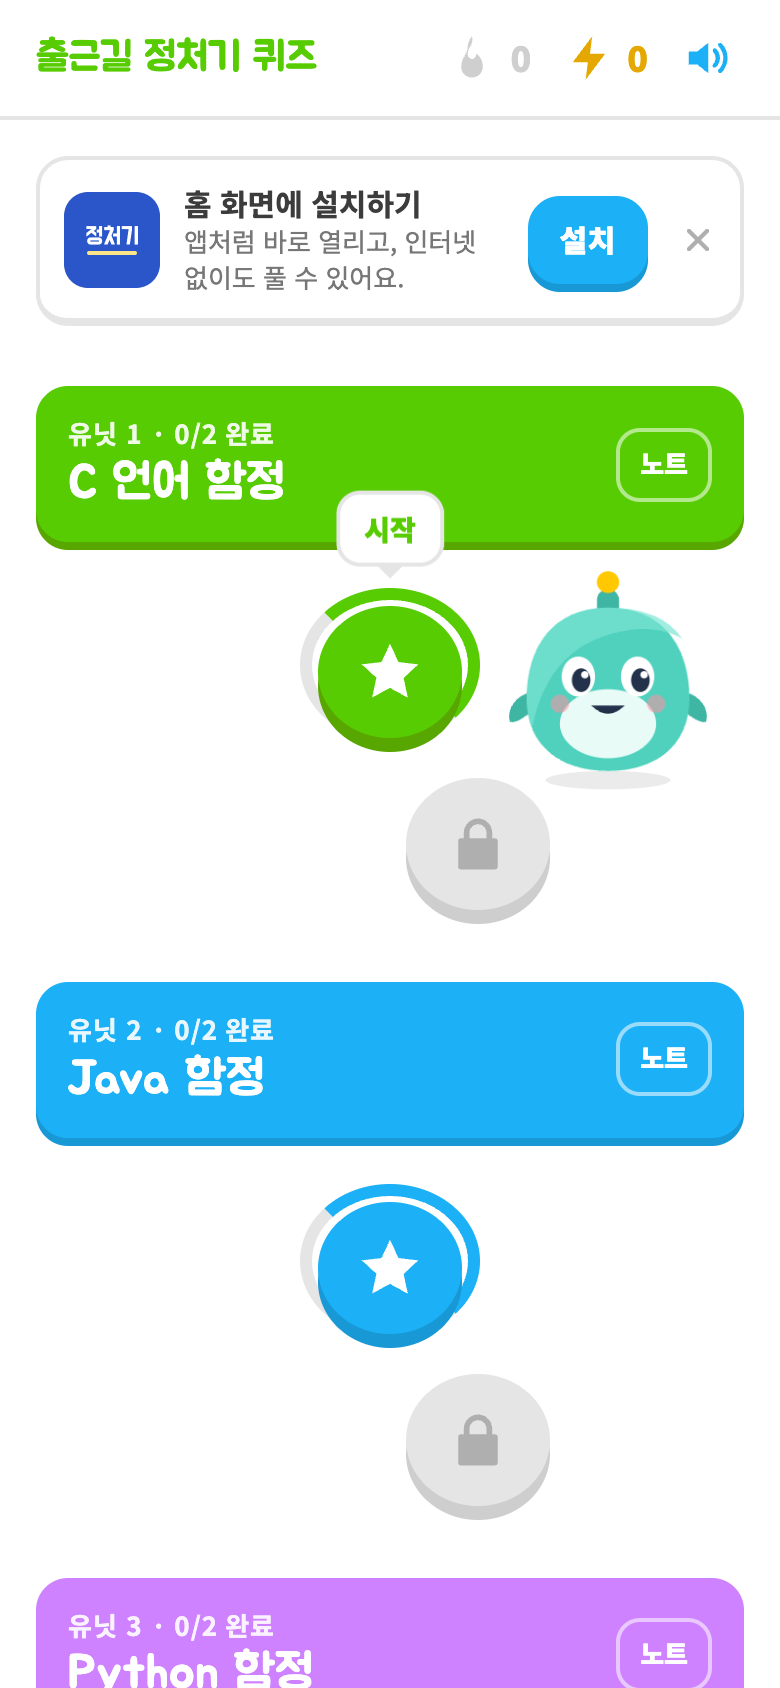
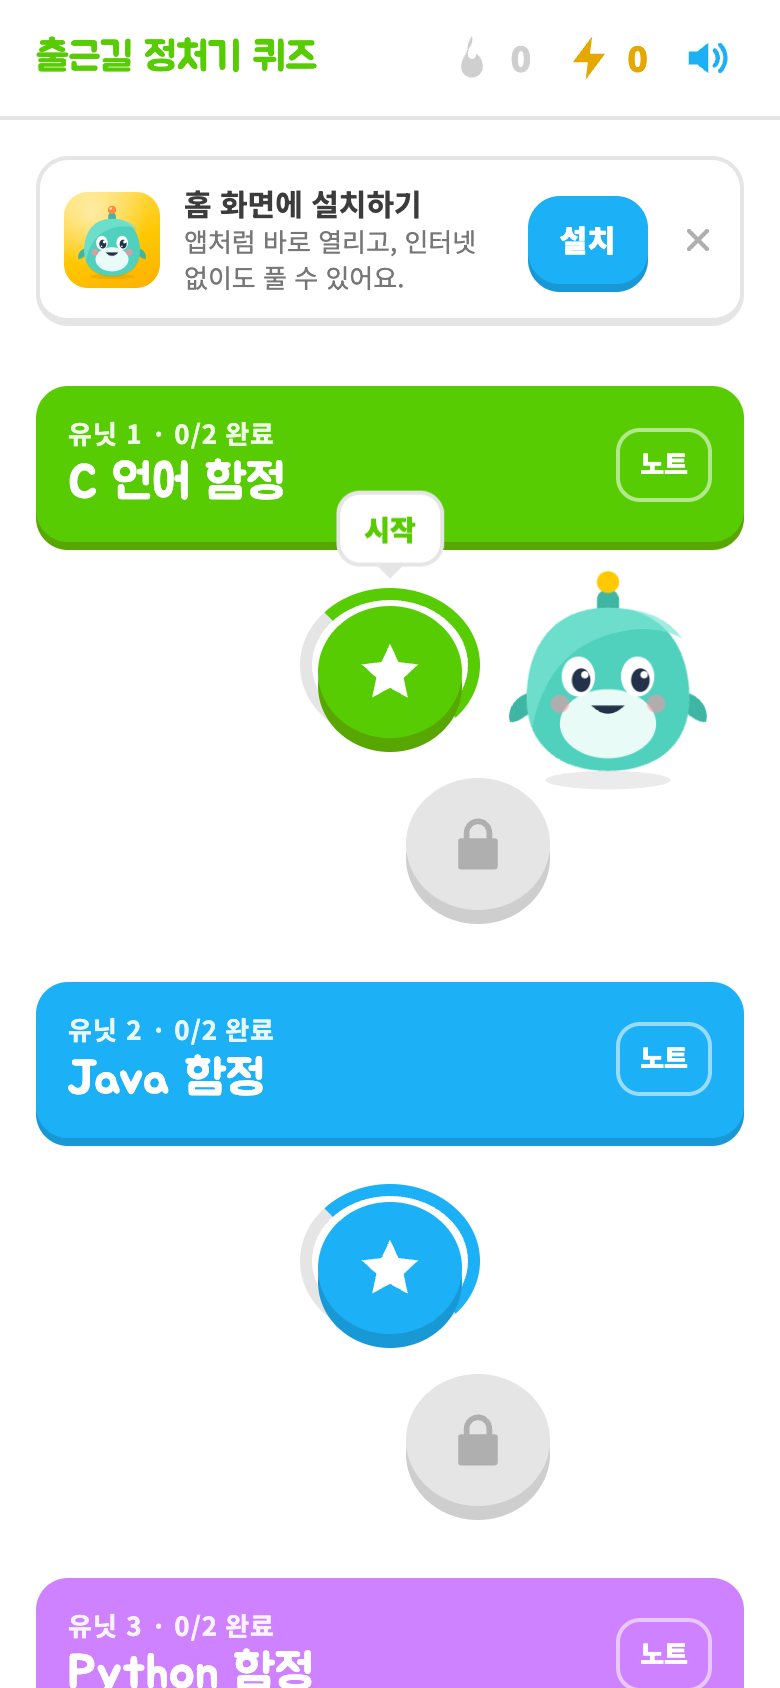
앱 아이콘을 캐릭터 비트로 새로 그림
노란 배경 위 웃는 비트. 홈 화면용, 안드로이드 마스크용(안전 영역 안),
아이폰, 파비콘 크기로 뽑고 다시 만들 수 있게 scripts/make-icons.mjs를 둔다.
설치된 앱이 새 아이콘을 받도록 서비스 워커 캐시 버전을 올린다.

Changed region(s): [[0.0615, 0.0924, 0.2154, 0.1848]]

diff --git a/public/sw.js b/public/sw.js
@@ -2,7 +2,7 @@
 // 페이지(HTML)는 네트워크 우선: 온라인이면 항상 최신, 오프라인이면 저장본.
 // SPA라 /lesson/... 같은 주소도 오프라인에서는 저장해 둔 첫 화면(./)을 돌려준다.
 // 아이콘·폰트 같은 나머지는 저장본을 먼저 쓰고 뒤에서 새로 받아 둠.
-const CACHE = 'jcq-v4';
+const CACHE = 'jcq-v5';
 const SHELL = ['./', './notes.html', './manifest.webmanifest',
   './icons/icon-192.png', './icons/icon-512.png', './icons/maskable-512.png',
   './icons/apple-touch-icon.png', './icons/favicon-32.png'];
